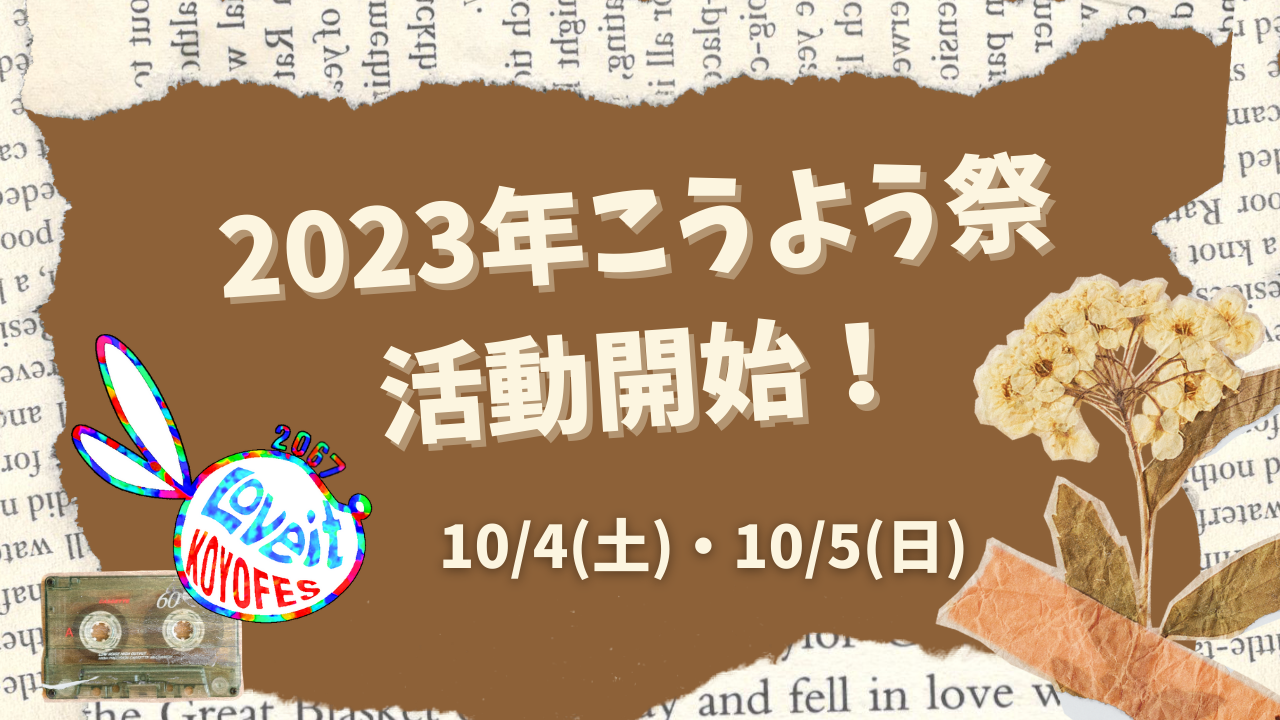
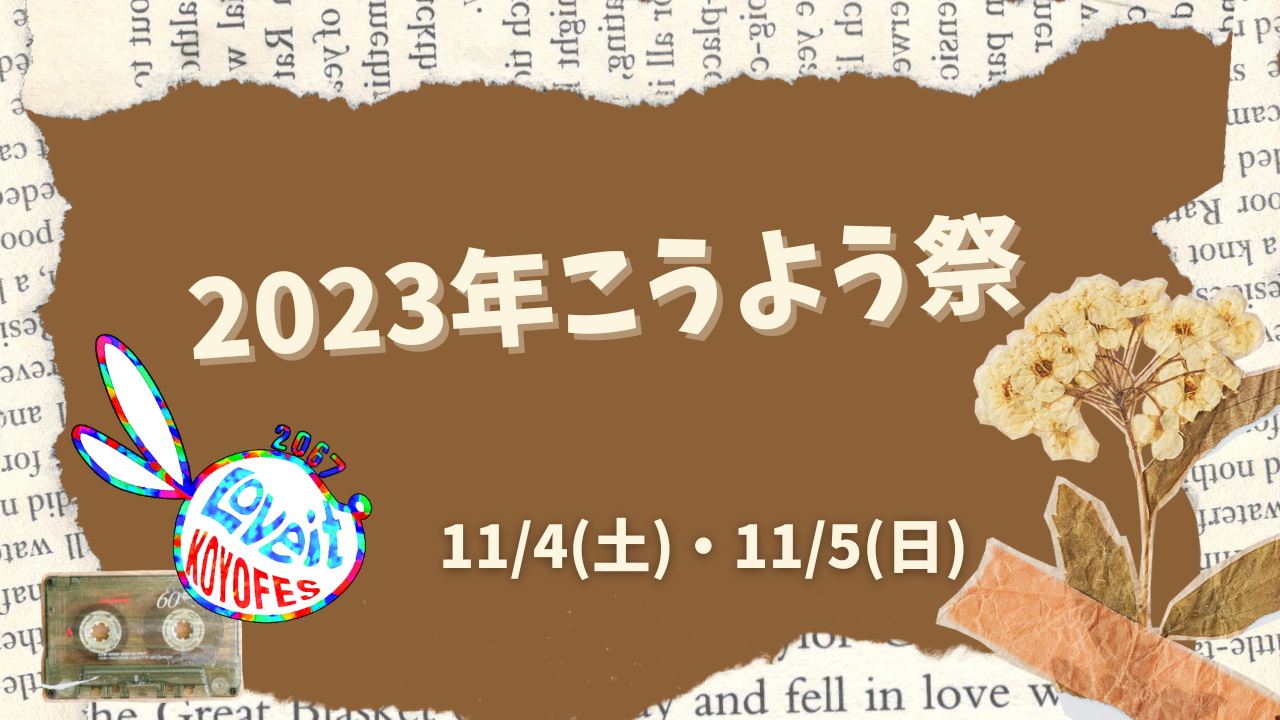
add about.html

diff --git a/about.html b/about.html
@@ -27,7 +27,6 @@
         <link href="https://fonts.googleapis.com/css2?family=Kosugi+Maru&family=Pacifico&family=Poppins:wght@300;600&family=Ubuntu:wght@300&display=swap" rel="stylesheet">
     </head>
     <body>
-        
         <header>
             <nav>
                 <div class="drawer">
@@ -59,41 +58,9 @@
                 </div>
             </nav>
         </header>
+
         
-        <div class="title_enroll">
-            <h1>
-                こうよう祭2023『LoVe it』開催！
-            </h1>
-            <div id="blank1">
-
-            </div>
-            <div class="enroll-button">
-                <a href="https://docs.google.com/forms/d/e/1FAIpQLSfHzs_tBKtFSN83rNnlM4IykTy4Hds5il4FjLUnB0zpeqfi2Q/viewform">
-                    参加登録
-                </a>
-            </div>
-        </div>
-
-        <div class="slideshow">
-            <ul class="slider-1" id="js-slider-1">
-                <li><img src="img/1.png" alt="slide1"></li>
-                <li><img src="img/2.png" alt="slide2"></li>
-                <li><img src="img/3.png" alt="slide3"></li>
-                <li><img src="img/4.png" alt="slide4"></li>
-                <li><img src="img/5.png" alt="slide4"></li>
-            </ul>
-        </div>
-        <div class="dots-1"></div>
-
-        <div class="description">
-            <p>こうよう祭は</p>
-            <p>豊田高専で年に一度開催される</p>
-            <p>秋の文化祭です！</p>
-            <div id="description-blank"></div>
-            <p>今年はは11月4日(土)・5日(日)に開催されます！</p>
-            <p>ぜひお越しください！</p>
-        </div>
-
+        
         <footer>
             <div class="app-link">
                 <a href="https://www.instagram.com/koyofes_2023/" target="_blank">

diff --git a/css/common.css b/css/common.css
@@ -132,7 +132,7 @@ footer{
 
 
 /*-----ここからPCモニターの記述-----*/
-@media screen and (min-width: 730px) {
+@media screen and (min-width: 840px) {
     
 /*ロゴの大きさを調整*/
 #logo img{

diff --git a/css/toppage.css b/css/toppage.css
@@ -82,7 +82,7 @@ h1{
 }
     
 /*-----ここからPCモニターの記述-----*/
-@media screen and (min-width: 730px) {
+@media screen and (min-width: 840px) {
 
 .title_enroll{
     display: flex;
